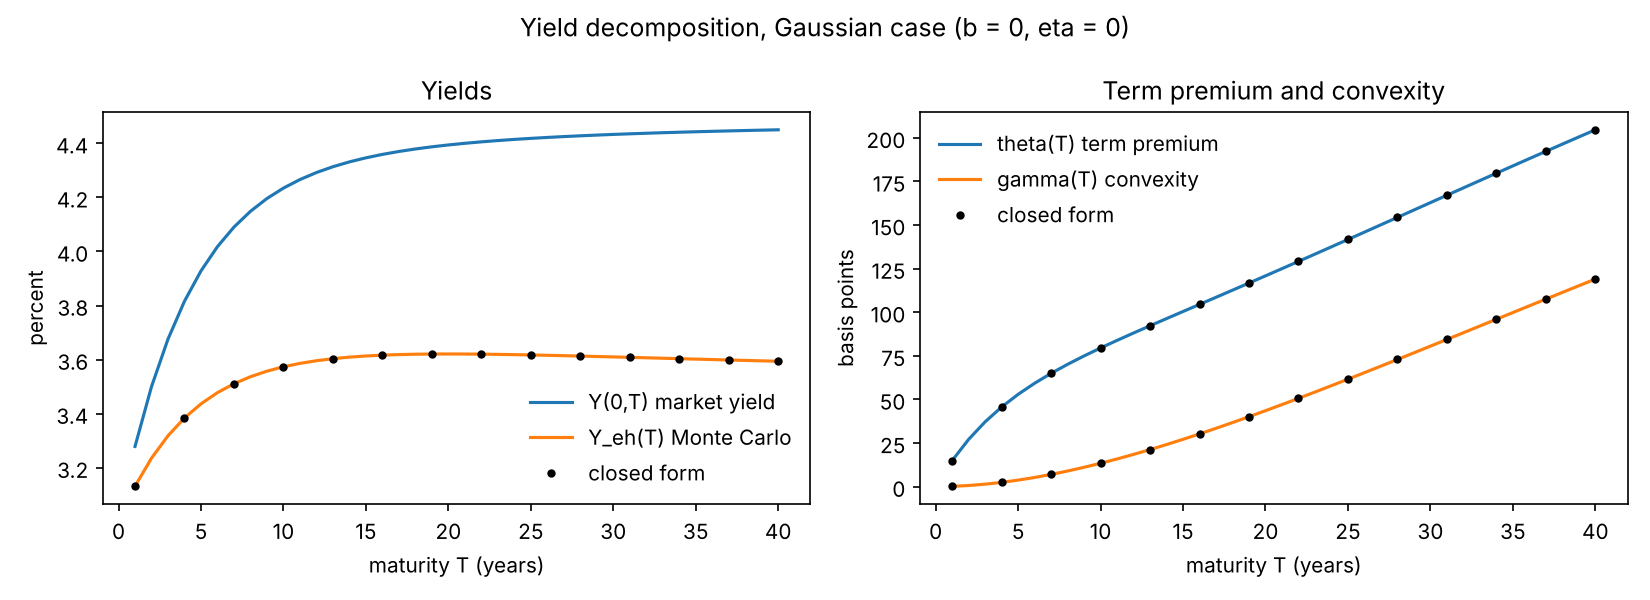
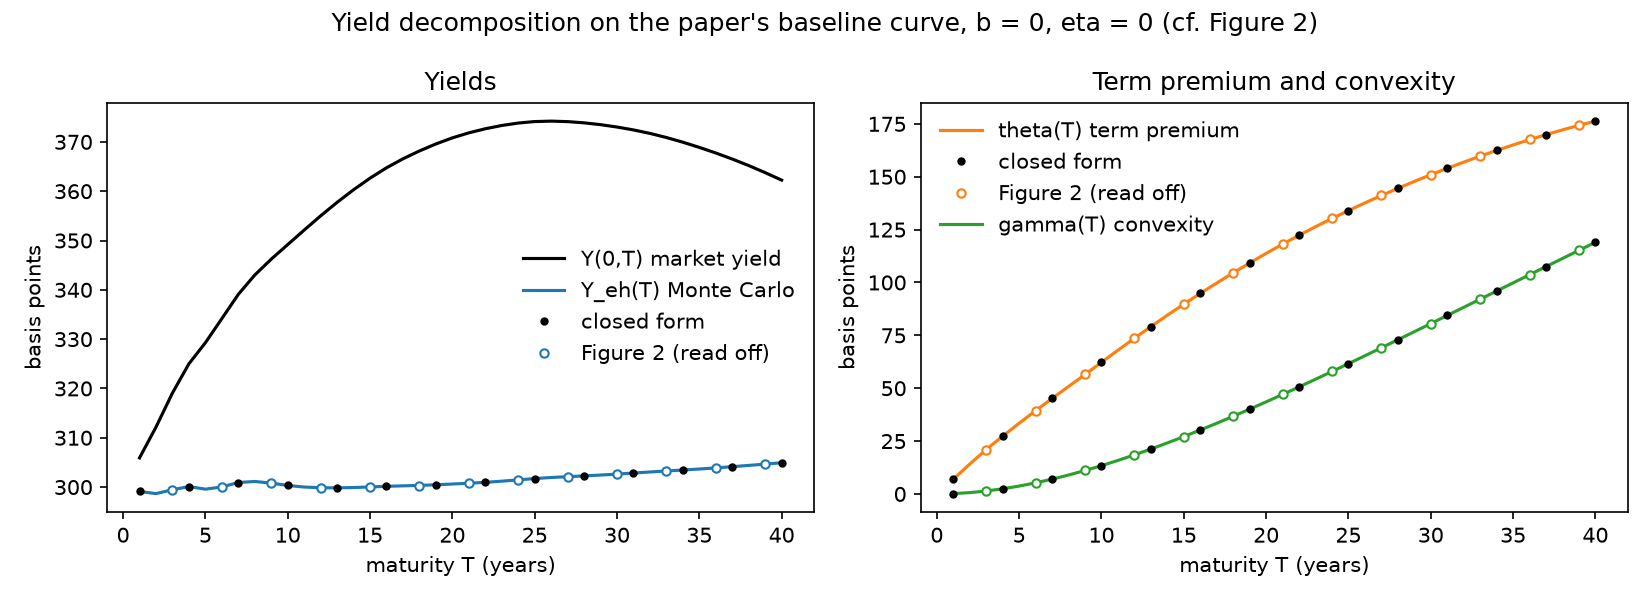
B3: move the Gaussian example to the paper's baseline curve; compare with Figure 2
examples/gaussian_decomposition.py now runs on markets.paper_curve
("baseline") and compares Monte Carlo, the Appendix D closed forms and
all four series of Figure 2; the uncalibrated zeroth-order skew sweep is
dropped (examples/skew_sweep.py supersedes it).

The digitiser now also reads theta and gamma off the right axis of
Figures 2 and 5 (checked by the overlay). Only those series are added to
the data file; existing values are left untouched.

Monte Carlo agrees with the closed forms to 0.002bp, and the closed forms
with Figure 2 to 0.24bp (Y_eh), 0.12bp (theta), 0.08bp (gamma).
tests/test_figure_2.py checks Figures 2 and 5 to 0.5bp.

Claude-Session: https://claude.ai/code/session_01BcRqUsAha26YxdYLMJVkWB

diff --git a/examples/gaussian_decomposition.py b/examples/gaussian_decomposition.py
@@ -1,10 +1,11 @@
-"""Figure-2-style yield decomposition in the Gaussian case (b = 0, eta = 0),
-Monte Carlo against the Appendix D closed forms, plus an uncalibrated skew
-sweep in the style of Figure 3.
+"""Figure 2: the yield decomposition on the paper's baseline curve in the
+Gaussian case (b = 0, eta = 0, sigma = 1%, kappa = 0.03, delta = 5),
+Monte Carlo against the Appendix D closed forms and against the paper's
+plotted values (read off Figure 2, see markets.paper_figures).
 
-The curve is an illustrative Nelson-Siegel curve, NOT the paper's synthetic
-curve (which is only shown graphically), so shapes are comparable and levels
-are not.
+The skew sweep this example used to carry is superseded by
+examples/skew_sweep.py, which calibrates the volatility scaling as the
+paper does.
 
     python examples/gaussian_decomposition.py [--out out]
 """
@@ -15,7 +16,7 @@ import jax
 import jax.numpy as jnp
 import numpy as np
 
-from slidingcurve import Curve, Model, decompose, gaussian as g, simulate, time_grid, volscale
+from slidingcurve import Model, decompose, gaussian as g, markets, simulate, time_grid, volscale
 
 BP = 1e4
 
@@ -28,57 +29,57 @@ def main():
     out = pathlib.Path(args.out)
     out.mkdir(exist_ok=True)
 
-    curve = Curve.nelson_siegel(beta0=0.045, beta1=-0.015, beta2=0.01, tau=4.0)
+    curve = markets.paper_curve("baseline")
+    fig2 = markets.paper_figures()["fig2"]
     model = Model(kappa=0.03, delta=5.0, sigma=0.01)       # Section 9.1 baseline
     t = time_grid(40.0, steps_per_year=12)
     mats = jnp.arange(1.0, 41.0)
-    key = jax.random.PRNGKey(0)
-    ybar = volscale.ybar_zeroth(curve, model.delta, t)
+    ybar = volscale.ybar_zeroth(curve, model.delta, t)      # immaterial at b = 0
 
-    dec = decompose(simulate(model, curve, t, ybar, key, n_paths=args.paths),
+    dec = decompose(simulate(model, curve, t, ybar, jax.random.PRNGKey(0), n_paths=args.paths),
                     model, curve, mats)
     exact = np.array([[g.yield_eh(curve, model.kappa, model.delta, model.sigma, T),
                        g.term_premium(curve, model.kappa, model.delta, model.sigma, T),
                        g.convexity(model.kappa, model.sigma, T)] for T in np.asarray(mats)])
+    ft = np.asarray(fig2["T"])
+    paper = {k: np.array([fig2[k][int(np.argmin(np.abs(ft - T)))] for T in np.asarray(mats)], dtype=float)
+             for k in ("Y", "Y_eh", "theta", "gamma")}
+    mc = np.stack([dec.y_eh, dec.theta, dec.gamma], 1)
 
-    print(f"{'T':>4} {'Y':>8} {'Y_eh':>8} {'theta':>8} {'gamma':>8} {'resid':>8}   (bp)"
-          f"   max |MC - closed form| = "
-          f"{BP * np.max(np.abs(np.stack([dec.y_eh, dec.theta, dec.gamma], 1) - exact)):.4f} bp")
+    print(f"max |Monte Carlo - closed form| = {BP * np.max(np.abs(mc - exact)):.4f}bp; "
+          f"max |closed form - Figure 2|: Y_eh {np.max(np.abs(BP*exact[:,0] - paper['Y_eh'])):.2f}, "
+          f"theta {np.max(np.abs(BP*exact[:,1] - paper['theta'])):.2f}, "
+          f"gamma {np.max(np.abs(BP*exact[:,2] - paper['gamma'])):.2f}bp")
+    print(f"{'T':>4} {'Y':>8} {'Y_eh':>8} {'theta':>8} {'gamma':>8} {'resid':>8}   this code (bp)"
+          f"  |  Figure 2: {'Y':>7} {'Y_eh':>7} {'theta':>7} {'gamma':>7}")
     for j in (0, 4, 9, 19, 29, 39):
-        print(f"{float(dec.T[j]):4.0f} {BP*dec.y[j]:8.2f} {BP*dec.y_eh[j]:8.2f} "
-              f"{BP*dec.theta[j]:8.2f} {BP*dec.gamma[j]:8.2f} {BP*dec.residual[j]:8.3f}")
+        print(f"{float(dec.T[j]):4.0f} {BP*dec.y[j]:8.2f} {BP*dec.y_eh[j]:8.2f} {BP*dec.theta[j]:8.2f} "
+              f"{BP*dec.gamma[j]:8.2f} {BP*dec.residual[j]:8.3f}                 "
+              + " ".join(f"{paper[k][j]:7.2f}" for k in ("Y", "Y_eh", "theta", "gamma")))
 
     import matplotlib
     matplotlib.use("Agg")
     import matplotlib.pyplot as plt
 
     fig, (a, b) = plt.subplots(1, 2, figsize=(11, 4))
-    a.plot(dec.T, 100 * dec.y, label="Y(0,T) market yield")
-    a.plot(dec.T, 100 * dec.y_eh, label="Y_eh(T) Monte Carlo")
-    a.plot(dec.T[::3], 100 * exact[::3, 0], "k.", label="closed form")
-    a.set(xlabel="maturity T (years)", ylabel="percent", title="Yields")
+    a.plot(dec.T, BP * dec.y, color="k", label="Y(0,T) market yield")
+    a.plot(dec.T, BP * dec.y_eh, color="C0", label="Y_eh(T) Monte Carlo")
+    a.plot(dec.T[::3], BP * exact[::3, 0], "k.", label="closed form")
+    a.plot(ft[11::12], np.asarray(fig2["Y_eh"], dtype=float)[11::12], "o", ms=4, color="C0",
+           markerfacecolor="white", label="Figure 2 (read off)")
+    a.set(xlabel="maturity T (years)", ylabel="basis points", title="Yields")
     a.legend(frameon=False)
-    b.plot(dec.T, BP * dec.theta, label="theta(T) term premium")
-    b.plot(dec.T, BP * dec.gamma, label="gamma(T) convexity")
-    b.plot(dec.T[::3], BP * exact[::3, 1], "k.", label="closed form")
-    b.plot(dec.T[::3], BP * exact[::3, 2], "k.")
+    for i, (k, lab) in enumerate((("theta", "theta(T) term premium"), ("gamma", "gamma(T) convexity"))):
+        b.plot(dec.T, BP * getattr(dec, k), color=f"C{i + 1}", label=lab)
+        b.plot(dec.T[::3], BP * exact[::3, i + 1], "k.", label="closed form" if i == 0 else None)
+        b.plot(ft[11::12], np.asarray(fig2[k], dtype=float)[11::12], "o", ms=4, color=f"C{i + 1}",
+               markerfacecolor="white", label="Figure 2 (read off)" if i == 0 else None)
     b.set(xlabel="maturity T (years)", ylabel="basis points", title="Term premium and convexity")
     b.legend(frameon=False)
-    fig.suptitle("Yield decomposition, Gaussian case (b = 0, eta = 0)")
+    fig.suptitle("Yield decomposition on the paper's baseline curve, b = 0, eta = 0 (cf. Figure 2)")
     fig.tight_layout()
     fig.savefig(out / "gaussian_decomposition.png", dpi=150)
-
-    fig, ax = plt.subplots(figsize=(6, 4))
-    for skew in (0.0, 0.25, 0.5, 0.75, 1.0):
-        m = model._replace(b=skew)
-        d = decompose(simulate(m, curve, t, ybar, key, n_paths=args.paths), m, curve, mats)
-        ax.plot(d.T, BP * d.gamma, label=f"b = {skew}")
-    ax.set(xlabel="maturity T (years)", ylabel="basis points",
-           title="Convexity vs skew (zeroth-order vol scaling, sigma not recalibrated)")
-    ax.legend(frameon=False)
-    fig.tight_layout()
-    fig.savefig(out / "skew_sweep_uncalibrated.png", dpi=150)
-    print(f"figures written to {out}/")
+    print(f"figure written to {out}/gaussian_decomposition.png")
 
 
 if __name__ == "__main__":

diff --git a/tools/digitise_figures.py b/tools/digitise_figures.py
@@ -24,8 +24,12 @@ COLOURS = {"black": (0, 0, 0), "royalblue": (65, 105, 225), "seagreen": (46, 139
 
 # file suffix -> (y tick values on the left axis, {series name: colour})
 FIGURES = {
-    "002": ("fig2", np.arange(300, 476, 25), {"Y": "black", "Y_eh": "royalblue"}),
-    "008": ("fig5", np.arange(300, 551, 50), {"Y": "black", "Y_eh": "royalblue"}),
+    # Figures 2 and 5: theta and gamma are on a right axis with the left
+    # axis' scale, offset so that gamma(0) = 0 (subtracted below)
+    "002": ("fig2", np.arange(300, 476, 25), {"Y": "black", "Y_eh": "royalblue",
+                                               "theta": "tomato", "gamma": "seagreen"}),
+    "008": ("fig5", np.arange(300, 551, 50), {"Y": "black", "Y_eh": "royalblue",
+                                               "theta": "tomato", "gamma": "seagreen"}),
     "004": ("fig3", np.arange(0, 301, 50), {"b=0.00": "black", "b=0.25": "royalblue",
             "b=0.50": "seagreen", "b=0.75": "goldenrod", "b=1.00": "tomato"}),
     "010": ("fig6", np.arange(0, 176, 25), {"b=0.00": "black", "b=0.25": "royalblue",
@@ -246,6 +250,10 @@ def main(src, dst):
             if np.isnan(vals[-1]) and not np.isnan(vals[-3:-1]).any():
                 vals[-1] = 2 * vals[-2] - vals[-3]      # the line ends under the right spine
             out[name][label] = [None if np.isnan(x) else round(float(x), 2) for x in vals]
+        if "gamma" in series:                                    # right-axis offset: gamma(0.25y) ~ 0.01bp
+            off = out[name]["gamma"][0]
+            for label in ("theta", "gamma"):
+                out[name][label] = [None if x is None else round(x - off, 2) for x in out[name][label]]
     for suffix, name in MARKET_FIGURES.items():
         out[name] = market_figure(np.asarray(Image.open(src / f"f-{suffix}.png").convert("RGB")))
     out["fig11"] = smile_figure(np.asarray(Image.open(src / "f-020.png").convert("RGB")))

diff --git a/experiments/digitisation_overlay.py b/experiments/digitisation_overlay.py
@@ -76,6 +76,22 @@ def main(src, dst):
     fig.tight_layout()
     fig.savefig(dst / "overlay_fig8.png", dpi=110)
 
+    # Figures 2 and 5: Y and Y_eh on the left axis; theta and gamma on the
+    # right axis, whose zero is at 300bp on the left one
+    for name, suffix, ticks in (("fig2", "002", np.arange(300, 476, 25)), ("fig5", "008", np.arange(300, 551, 50))):
+        img = np.asarray(Image.open(src / f"f-{suffix}.png").convert("RGB"))
+        px, py = axis_maps(img, None, ticks, x_limits=(0.0, 40.0))
+        d = figs[name]
+        t = np.asarray(d["T"])
+        sel = slice(7, None, 8)
+        series = {k: np.asarray(d[k], dtype=object)[sel].tolist() for k in ("Y", "Y_eh")}
+        series.update({k: [None if v is None else v + 300.0 for v in np.asarray(d[k], dtype=object)[sel]]
+                       for k in ("theta", "gamma")})
+        fig, ax = plt.subplots(figsize=(9, 6))
+        overlay(ax, img, px, py, t[sel], series, f"{name}: digitised points")
+        fig.tight_layout()
+        fig.savefig(dst / f"overlay_{name}.png", dpi=110)
+
     # Figures 3, 6, 7, 9 (maturity on the x axis, frame = 0..40y)
     for name, suffix, ticks in (("fig3", "004", np.arange(0, 301, 50)), ("fig6", "010", np.arange(0, 176, 25)),
                                 ("fig7", "012", np.arange(0, 121, 20)), ("fig9", "016", np.arange(0, 201, 50))):

diff --git a/tests/test_figure_2.py b/tests/test_figure_2.py
@@ -1,0 +1,21 @@
+"""B3: the Appendix D closed forms on the paper's two synthetic curves against
+all four plotted series of Figures 2 and 5 (b = 0, eta = 0, sigma = 1%)."""
+import numpy as np
+import pytest
+
+from slidingcurve import gaussian as g, markets
+
+
+@pytest.mark.parametrize("which,fig", [("baseline", "fig2"), ("steep", "fig5")])
+def test_closed_forms_reproduce_figures_2_and_5(which, fig):
+    curve = markets.paper_curve(which)
+    ref = markets.paper_figures()[fig]
+    t = np.asarray(ref["T"])
+    for T in (1.0, 5.0, 10.0, 20.0, 30.0, 40.0):
+        i = int(np.argmin(np.abs(t - T)))
+        mine = 1e4 * np.array([float(g.yield_eh(curve, 0.03, 5.0, 0.01, T)),
+                               float(g.term_premium(curve, 0.03, 5.0, 0.01, T)),
+                               float(g.convexity(0.03, 0.01, T))])
+        paper = np.array([ref["Y_eh"][i], ref["theta"][i], ref["gamma"][i]], dtype=float)
+        # digitisation is good to a few tenths of a basis point
+        np.testing.assert_allclose(mine, paper, atol=0.5)

diff --git a/docs/investigation.md b/docs/investigation.md
@@ -658,3 +658,36 @@ amounts of this order. The paper's high-skew convexities are therefore
 partly properties of the cap; that the shortfall is 1.7-2.6% and grows with
 b is consistent with that, but we cannot pin it down further without the
 definition.
+
+---
+
+## B3. The Gaussian decomposition example
+
+**Status: fixed.** `examples/gaussian_decomposition.py` now uses the paper's
+baseline curve (`markets.paper_curve("baseline")`) instead of an
+illustrative Nelson-Siegel curve and compares Monte Carlo, the Appendix D
+closed forms and Figure 2. The uncalibrated zeroth-order skew sweep it used
+to carry is dropped (`examples/skew_sweep.py` supersedes it).
+
+Figure 2 plots theta and gamma on a right axis that the digitiser did not
+read; `tools/digitise_figures.py` now reads them for Figures 2 and 5 (same
+scale as the left axis, offset so that gamma(0) = 0), and the overlay check
+confirms every point ([Figure 2](investigation/overlay_fig2.png),
+[Figure 5](investigation/overlay_fig5.png)). Only the new series were added
+to the data file: re-running the digitiser in this environment changes 13
+existing values by 0.01bp (numpy rounding), and they were left as they were
+so that no committed result moves.
+
+| T | Y_eh: this code / Figure 2 | theta | gamma |
+|---|---|---|---|
+| 1 | 299.11 / 299.35 | 6.97 / 7.01 | 0.16 / 0.16 |
+| 5 | 299.58 / 299.50 | 33.42 / 33.40 | 3.73 / 3.72 |
+| 10 | 300.33 / 300.30 | 62.23 / 62.20 | 13.39 / 13.40 |
+| 20 | 300.62 / 300.61 | 113.73 / 113.75 | 43.54 / 43.60 |
+| 30 | 302.63 / 302.67 | 150.93 / 150.95 | 80.55 / 80.56 |
+| 40 | 304.94 / 304.80 | 176.30 / 176.41 | 119.00 / 119.08 |
+
+Monte Carlo against closed form: 0.002bp at most. Closed form against the
+figure: 0.24 (Y_eh), 0.12 (theta), 0.08bp (gamma) at most, i.e.
+digitisation error. `tests/test_figure_2.py` checks the closed forms against
+all four series of Figures 2 and 5 to 0.5bp.

diff --git a/README.md b/README.md
@@ -30,8 +30,10 @@ implementation written from the paper; it is not the authors' code.
 Measured (Section 9.1 baseline: `delta = 5`, `kappa = 0.03`, monthly steps
 for the decomposition, 24 steps a year for pricing):
 
-- Gaussian decomposition: Monte Carlo and closed form agree to 0.01bp for
-  `Y_eh`, `theta` and `gamma` at every maturity from 1 to 40 years.
+- Gaussian decomposition on the paper's baseline curve: Monte Carlo and
+  closed form agree to 0.002bp, and the closed forms reproduce all four
+  series of Figure 2 to 0.24bp (digitisation error) at every maturity from
+  1 to 40 years.
 - With skew and/or stochastic volatility on, the three independently estimated
   terms sum to the market yield to within their standard error.
 - Gaussian swaption prices agree with the exact price to within Monte-Carlo
